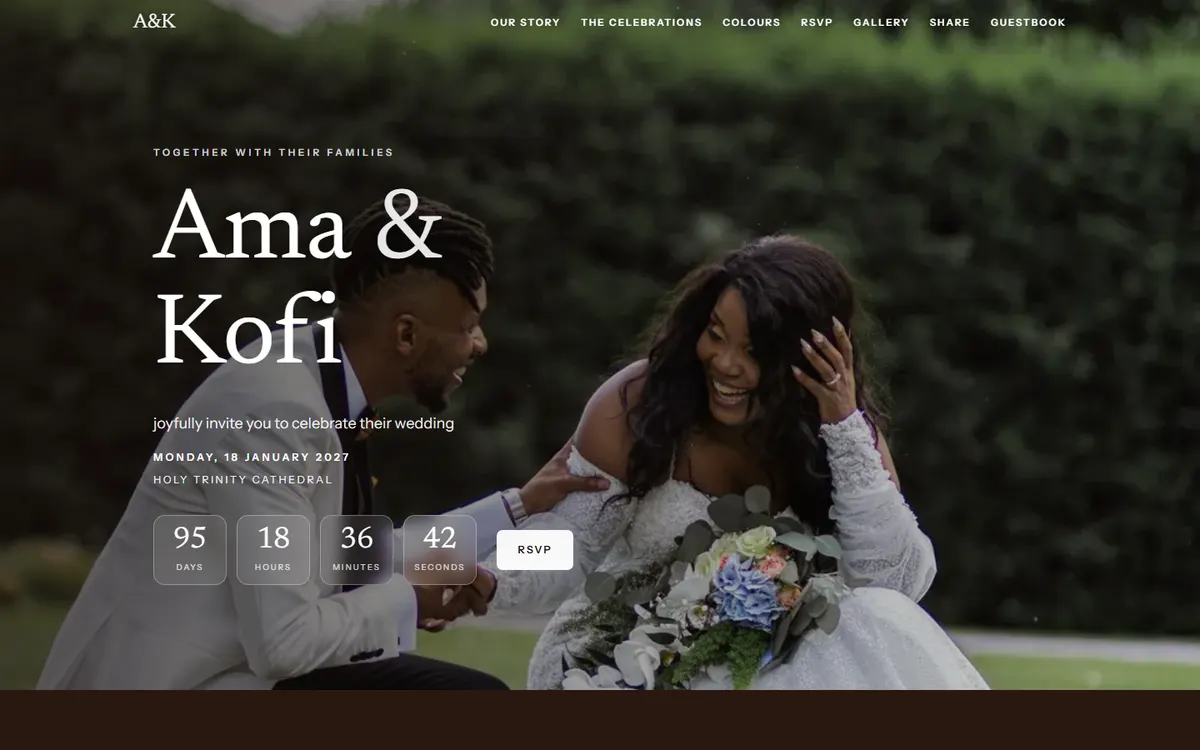
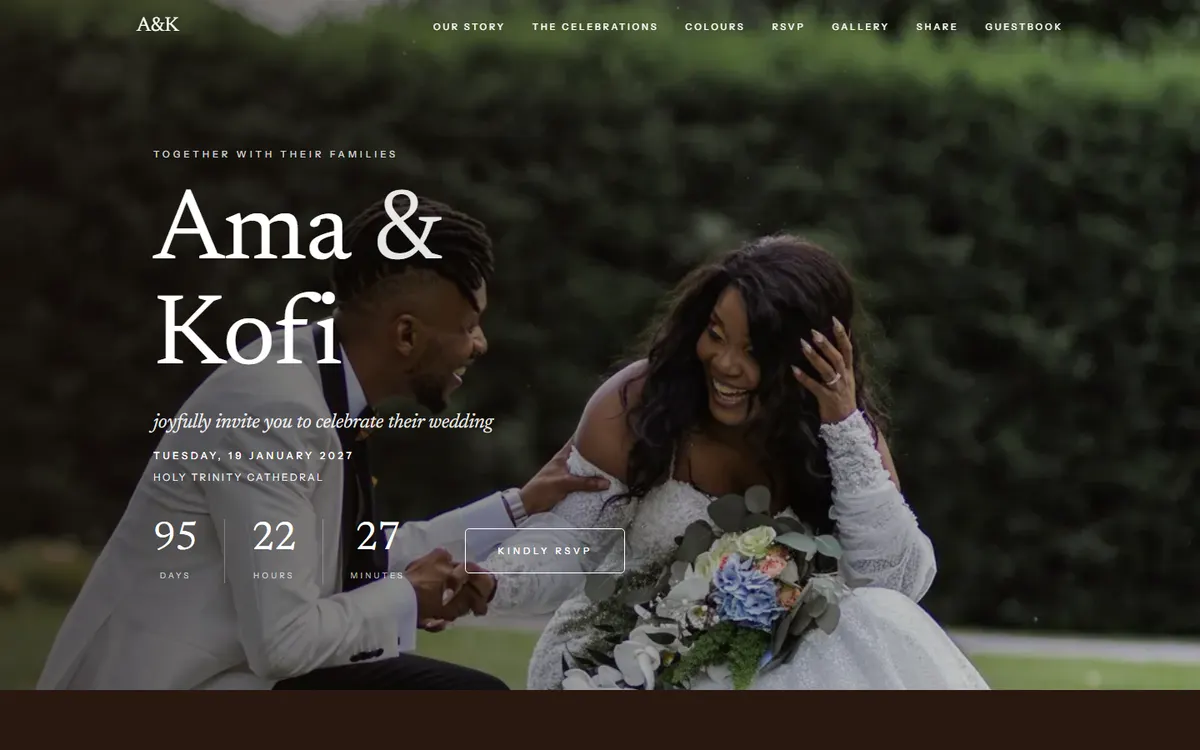
More refined designs: hairline countdown, outlined RSVP, italic invitation line, quieter cards, text links for maps, mounted-print date photo

diff --git a/src/components/site/hero.tsx b/src/components/site/hero.tsx
@@ -55,9 +55,14 @@ function Lead({ w }: { w: CelebrationView }) {
   return <>{w.occasion.copy.hostLine}</>;
 }
 
-function Invitation({ w }: { w: CelebrationView }) {
+function Invitation({ w, theme }: { w: CelebrationView; theme: Theme }) {
   if (w.phase === "after" || w.phase === "today") return null;
-  return <p className="text-base opacity-90 sm:text-lg">{w.occasion.copy.invitation}</p>;
+  const heavy = theme.fonts.displayWeight >= 600;
+  return (
+    <p className={`leading-snug italic opacity-90 ${heavy ? "text-lg sm:text-xl" : "w-display text-xl font-normal sm:text-2xl"}`}>
+      {w.occasion.copy.invitation}
+    </p>
+  );
 }
 
 function primary(w: CelebrationView) {
@@ -68,7 +73,7 @@ function DateLine({ w }: { w: CelebrationView }) {
   const { born, passed } = w.facts.lifeDates;
   const p = primary(w);
   return (
-    <div className="space-y-1.5 text-[0.78rem] font-semibold tracking-[0.26em] uppercase">
+    <div className="space-y-1.5 text-[0.74rem] font-medium tracking-[0.3em] uppercase">
       {w.occasion.after === "remembrance" && (born || passed) && (
         <p className="tracking-[0.2em] normal-case">
           {born ? formatPlainDate(born) : ""} {born && passed ? "–" : ""} {passed ? formatPlainDate(passed) : ""}
@@ -81,7 +86,7 @@ function DateLine({ w }: { w: CelebrationView }) {
 }
 
 /** Countdown before (if the occasion has one), a message on the day, a counter or line afterwards. */
-function Moment({ w, tone }: { w: CelebrationView; tone: "light" | "dark" }) {
+function Moment({ w, tone, align = "center" }: { w: CelebrationView; tone: "light" | "dark"; align?: "start" | "center" }) {
   const p = primary(w);
   if (w.phase === "after") {
     if (w.occasion.after === "married" && w.keyDate) {
@@ -94,14 +99,14 @@ function Moment({ w, tone }: { w: CelebrationView; tone: "light" | "dark" }) {
     return null;
   }
   if (!p || !w.occasion.countdown) return null;
-  return <Countdown to={p.startsAt} tone={tone} after={<p className="w-display text-2xl italic sm:text-3xl">{w.occasion.copy.today}</p>} />;
+  return <Countdown to={p.startsAt} tone={tone} align={align} seconds={false} after={<p className="w-display text-2xl italic sm:text-3xl">{w.occasion.copy.today}</p>} />;
 }
 
 function Cta({ w, light }: { w: CelebrationView; light: boolean }) {
   if (!w.rsvp.open || w.hiddenSections.includes("rsvp")) return null;
   return (
-    <a href="#rsvp" className={`w-btn ${light ? "w-btn-light" : ""}`}>
-      RSVP
+    <a href="#rsvp" className={`w-cta ${light ? "w-cta-light" : ""}`}>
+      Kindly RSVP
     </a>
   );
 }
@@ -132,8 +137,8 @@ export function Hero({ w, theme }: { w: CelebrationView; theme: Theme }) {
           <div className="relative z-10 mx-auto w-full max-w-6xl space-y-6 px-6 pt-28 pb-16 sm:px-10">
             <p className="w-eyebrow w-hero-in !text-white/80"><Lead w={w} /></p>
             <Headline w={w} theme={theme} className={`w-hero-in max-w-4xl leading-[0.98] ${fit(w, "text-[clamp(3.2rem,9vw,7.5rem)]", "text-[clamp(2.8rem,7vw,6rem)]", "text-[clamp(2.2rem,5.5vw,4.5rem)]")}`} />
-            <div className="w-hero-in max-w-xl space-y-4 [animation-delay:150ms]"><Invitation w={w} /><DateLine w={w} /></div>
-            <div className="flex flex-wrap items-center gap-6 pt-2"><Moment w={w} tone="light" /><Cta w={w} light /></div>
+            <div className="w-hero-in max-w-xl space-y-4 [animation-delay:150ms]"><Invitation w={w} theme={theme} /><DateLine w={w} /></div>
+            <div className="flex flex-wrap items-center gap-x-10 gap-y-8 pt-4"><Moment w={w} tone="light" align="start" /><Cta w={w} light /></div>
           </div>
         </header>
       );
@@ -148,8 +153,8 @@ export function Hero({ w, theme }: { w: CelebrationView; theme: Theme }) {
           <div className="flex flex-col justify-center gap-7 px-6 py-14 sm:px-12 md:py-20 lg:px-20">
             <p className="w-eyebrow w-hero-in"><Lead w={w} /></p>
             <Headline w={w} theme={theme} className={`w-hero-in leading-[0.95] ${fit(w, "text-6xl sm:text-7xl lg:text-8xl", "text-5xl sm:text-6xl lg:text-7xl", "text-4xl sm:text-5xl lg:text-6xl")} ${theme.heading === "minimal-caps" ? "uppercase" : ""}`} />
-            <div className="w-hero-in space-y-3 [animation-delay:150ms]"><Invitation w={w} /><DateLine w={w} /></div>
-            <div className="w-hero-in [animation-delay:300ms]"><Moment w={w} tone="dark" /></div>
+            <div className="w-hero-in space-y-3 [animation-delay:150ms]"><Invitation w={w} theme={theme} /><DateLine w={w} /></div>
+            <div className="w-hero-in [animation-delay:300ms]"><Moment w={w} tone="dark" align="start" /></div>
             <div><Cta w={w} light={false} /></div>
           </div>
         </header>
@@ -165,7 +170,7 @@ export function Hero({ w, theme }: { w: CelebrationView; theme: Theme }) {
           </div>
           <Headline w={w} theme={theme} stacked={false} className={`w-hero-in mt-10 italic ${fit(w, "text-5xl sm:text-7xl", "text-4xl sm:text-6xl", "text-3xl sm:text-5xl")}`} />
           <div className="mt-5"><OrnamentDivider kind={theme.ornament} /></div>
-          <div className="mt-5 space-y-3"><Invitation w={w} /><DateLine w={w} /></div>
+          <div className="mt-5 space-y-3"><Invitation w={w} theme={theme} /><DateLine w={w} /></div>
           <div className="mt-8 flex justify-center"><Moment w={w} tone="dark" /></div>
           <div className="mt-8"><Cta w={w} light={false} /></div>
         </header>
@@ -183,7 +188,7 @@ export function Hero({ w, theme }: { w: CelebrationView; theme: Theme }) {
           </div>
           <Headline w={w} theme={theme} stacked={false} className={`w-hero-in mx-auto mt-10 max-w-3xl ${fit(w, "text-5xl sm:text-6xl", "text-4xl sm:text-6xl", "text-3xl sm:text-5xl")}`} />
           <div className="mt-6"><OrnamentDivider kind={theme.ornament} /></div>
-          <div className="mx-auto mt-6 max-w-xl space-y-3"><Invitation w={w} /><DateLine w={w} /></div>
+          <div className="mx-auto mt-6 max-w-xl space-y-3"><Invitation w={w} theme={theme} /><DateLine w={w} /></div>
           <div className="mt-8 flex justify-center"><Moment w={w} tone="dark" /></div>
           <div className="mt-8"><Cta w={w} light={false} /></div>
         </header>
@@ -199,8 +204,8 @@ export function Hero({ w, theme }: { w: CelebrationView; theme: Theme }) {
               <p className="w-eyebrow w-hero-in"><Lead w={w} /></p>
               <Headline w={w} theme={theme} stacked={false} className={`w-hero-in leading-[0.95] ${fit(w, "text-[clamp(3.2rem,9vw,6.5rem)]", "text-[clamp(2.4rem,7vw,5rem)]", "text-[clamp(2rem,5vw,4rem)]")}`} />
               <OrnamentDivider kind={theme.ornament} className="lg:mx-0" />
-              <div className="space-y-3"><Invitation w={w} /><DateLine w={w} /></div>
-              <div className="flex justify-center lg:justify-start"><Moment w={w} tone="dark" /></div>
+              <div className="space-y-3"><Invitation w={w} theme={theme} /><DateLine w={w} /></div>
+              <div className="flex justify-center lg:justify-start"><Moment w={w} tone="dark" align="start" /></div>
               <Cta w={w} light={false} />
             </div>
             <div className="relative mx-auto h-[420px] w-full max-w-md" aria-hidden={!shots.length}>
@@ -237,8 +242,8 @@ export function Hero({ w, theme }: { w: CelebrationView; theme: Theme }) {
               className={`w-hero-in mt-6 max-w-5xl leading-[0.9] ${fit(w, "text-[clamp(3.4rem,11vw,9rem)]", "text-[clamp(3rem,8vw,6.5rem)]", "text-[clamp(2.4rem,6vw,5rem)]")} ${theme.heading === "minimal-caps" ? "uppercase" : ""}`}
             />
             <div className="mt-8 h-px w-28 bg-[var(--w-accent)]" />
-            <div className="mt-6 max-w-xl space-y-3"><Invitation w={w} /><DateLine w={w} /></div>
-            <div className="mt-8 flex flex-wrap items-center gap-6"><Moment w={w} tone="light" /><Cta w={w} light={false} /></div>
+            <div className="mt-6 max-w-xl space-y-3"><Invitation w={w} theme={theme} /><DateLine w={w} /></div>
+            <div className="mt-10 flex flex-wrap items-center gap-x-10 gap-y-8"><Moment w={w} tone="light" align="start" /><Cta w={w} light /></div>
           </div>
         </header>
       );
@@ -257,7 +262,7 @@ export function Hero({ w, theme }: { w: CelebrationView; theme: Theme }) {
             <p className="w-eyebrow w-hero-in !text-[#F1D79B]"><Lead w={w} /></p>
             <Headline w={w} theme={theme} className={`w-hero-in tracking-[0.05em] uppercase ${fit(w, "text-5xl sm:text-7xl", "text-4xl sm:text-6xl", "text-3xl sm:text-5xl")}`} />
             <OrnamentDivider kind={theme.ornament} className="!text-[#F1D79B]" />
-            <div className="space-y-3"><Invitation w={w} /><DateLine w={w} /></div>
+            <div className="space-y-3"><Invitation w={w} theme={theme} /><DateLine w={w} /></div>
             <Moment w={w} tone="light" />
             <Cta w={w} light />
           </div>
@@ -273,8 +278,8 @@ export function Hero({ w, theme }: { w: CelebrationView; theme: Theme }) {
             <div className="order-2 space-y-7 lg:order-1">
               <p className="w-eyebrow w-hero-in"><Lead w={w} /></p>
               <Headline w={w} theme={theme} stacked={false} className={`w-hero-in leading-[0.92] ${fit(w, "text-[clamp(3.2rem,9vw,6.5rem)]", "text-[clamp(2.4rem,7vw,5rem)]", "text-[clamp(2rem,5vw,4rem)]")}`} />
-              <div className="space-y-3"><Invitation w={w} /><DateLine w={w} /></div>
-              <Moment w={w} tone="dark" />
+              <div className="space-y-3"><Invitation w={w} theme={theme} /><DateLine w={w} /></div>
+              <Moment w={w} tone="dark" align="start" />
               <Cta w={w} light={false} />
             </div>
             <div className="relative order-1 lg:order-2">
@@ -300,7 +305,7 @@ export function Hero({ w, theme }: { w: CelebrationView; theme: Theme }) {
             <p className="w-eyebrow w-hero-in !text-white/90"><Lead w={w} /></p>
             <Headline w={w} theme={theme} className={`w-hero-in ${fit(w, "text-6xl sm:text-8xl", "text-5xl sm:text-7xl", "text-4xl sm:text-6xl")}`} />
             <OrnamentDivider kind={theme.ornament} className="!text-white/80" />
-            <div className="w-hero-in space-y-3 [animation-delay:200ms]"><Invitation w={w} /><DateLine w={w} /></div>
+            <div className="w-hero-in space-y-3 [animation-delay:200ms]"><Invitation w={w} theme={theme} /><DateLine w={w} /></div>
             <div className="w-hero-in [animation-delay:350ms]"><Moment w={w} tone="light" /></div>
             <Cta w={w} light />
           </div>

diff --git a/src/components/site/sections.tsx b/src/components/site/sections.tsx
@@ -28,21 +28,21 @@ export function Section({
   const shaped = tone !== "plain" && theme.layout.divider !== "none";
   const left = theme.heading === "editorial-left";
   const size =
-    theme.heading === "minimal-caps" ? "text-3xl tracking-[0.12em] uppercase sm:text-4xl"
-    : theme.heading === "script-centered" ? "text-5xl italic sm:text-6xl"
-    : theme.heading === "ornate" ? "text-4xl tracking-[0.08em] uppercase sm:text-5xl"
-    : theme.heading === "editorial-left" ? "text-5xl sm:text-7xl"
-    : "text-5xl sm:text-6xl";
+    theme.heading === "minimal-caps" ? "text-3xl tracking-[0.18em] uppercase sm:text-[2.6rem]"
+    : theme.heading === "script-centered" ? "text-5xl italic sm:text-7xl"
+    : theme.heading === "ornate" ? "text-4xl tracking-[0.1em] uppercase sm:text-5xl"
+    : theme.heading === "editorial-left" ? "text-5xl sm:text-[5.5rem]"
+    : "text-5xl sm:text-[4.2rem]";
   return (
     <section
       id={id}
       aria-labelledby={`${id}-title`}
       style={{ ["--w-section-bg" as string]: bg }}
-      className={`scroll-mt-20 px-5 py-20 sm:px-8 sm:py-28 ${tone === "tint" ? "w-tint" : tone === "band" ? "w-band" : tone === "pop" ? "w-pop" : ""} ${shaped ? "w-shaped" : ""}`}
+      className={`scroll-mt-20 px-5 py-24 sm:px-8 sm:py-36 ${tone === "tint" ? "w-tint" : tone === "band" ? "w-band" : tone === "pop" ? "w-pop" : ""} ${shaped ? "w-shaped" : ""}`}
     >
       {shaped && <SectionShape kind={theme.layout.divider} fill={bg} />}
       <div className="mx-auto max-w-6xl">
-        <Reveal className={`mb-12 sm:mb-16 ${left ? "text-left" : "text-center"}`}>
+        <Reveal className={`mb-14 sm:mb-20 ${left ? "text-left" : "text-center"}`}>
           {theme.heading === "band" && <GeometricBand className="mx-auto mb-6 !h-3 max-w-[9rem]" />}
           <p className="w-eyebrow">{eyebrow}</p>
           <h2 id={`${id}-title`} className={`w-display mt-3 ${size}`}>{title}</h2>
@@ -72,7 +72,7 @@ export function SectionShape({ kind, fill }: { kind: Theme["layout"]["divider"];
   );
 }
 
-export function SaveTheDate({ w }: { w: CelebrationView }) {
+export function SaveTheDate({ w, theme }: { w: CelebrationView; theme: Theme }) {
   const p = w.events.find((e) => e.id === w.primaryEventId) ?? w.events[0];
   if (!p) return null;
   const { y, m, d } = parsePlainDate(plainDateInZone(new Date(p.startsAt), p.timezone));
@@ -87,10 +87,17 @@ export function SaveTheDate({ w }: { w: CelebrationView }) {
       <div className={`mx-auto grid max-w-5xl items-center gap-14 ${photo ? "md:grid-cols-2" : ""}`}>
         {photo && (
           <Reveal className="mx-auto w-[min(78vw,320px)]">
-            <figure className="w-tilt-l bg-white p-3 pb-12 shadow-[0_30px_60px_-30px_rgba(0,0,0,.7)]">
-              <Picture image={photo} sizes="320px" className="aspect-[4/5] w-full object-cover" />
-              <figcaption className="w-display mt-3 text-center text-2xl text-[#2a1b13] italic">Moments</figcaption>
-            </figure>
+            {theme.photo === "polaroid" ? (
+              <figure className="w-tilt-l bg-white p-3 pb-12 shadow-[0_30px_60px_-30px_rgba(0,0,0,.7)]">
+                <Picture image={photo} sizes="320px" className="aspect-[4/5] w-full object-cover" />
+                <figcaption className="w-display mt-3 text-center text-2xl text-[#2a1b13] italic">Moments</figcaption>
+              </figure>
+            ) : (
+              // A fine inset frame, like a mounted print.
+              <figure className="border border-[color-mix(in_srgb,var(--w-band-ink)_35%,transparent)] p-3">
+                <Picture image={photo} sizes="320px" className={`aspect-[4/5] w-full object-cover ${theme.hero === "arch" ? "w-arch" : ""}`} />
+              </figure>
+            )}
           </Reveal>
         )}
         <Reveal className="text-center">
@@ -262,7 +269,7 @@ export function CountdownBand({ w, theme }: { w: CelebrationView; theme: Theme }
       <Reveal>
         <p className={`w-display ${look === "big" ? "text-3xl uppercase tracking-[0.12em] sm:text-4xl" : "text-4xl italic sm:text-5xl"}`}>{heading}</p>
         <div className="mx-auto mt-10 flex max-w-4xl justify-center">
-          <Countdown to={p.startsAt} tone={look === "circles" ? "dark" : "light"} look={look === "band" ? "boxes" : look} after={<p className="w-display text-2xl italic">{w.occasion.copy.today}</p>} />
+          <Countdown to={p.startsAt} tone={look === "circles" ? "dark" : "light"} look={look === "band" ? "inline" : look} after={<p className="w-display text-2xl italic">{w.occasion.copy.today}</p>} />
         </div>
       </Reveal>
     </section>

diff --git a/src/components/site/celebration.css b/src/components/site/celebration.css
@@ -22,9 +22,9 @@
 .w-band { background: var(--w-band); color: var(--w-band-ink); }
 .w-eyebrow {
   font-family: var(--w-body);
-  font-size: 0.72rem;
-  font-weight: 600;
-  letter-spacing: 0.32em;
+  font-size: 0.7rem;
+  font-weight: 500;
+  letter-spacing: 0.36em;
   text-transform: uppercase;
   color: var(--w-accent);
 }
@@ -34,10 +34,12 @@
   border: 1px solid var(--w-line);
   border-radius: var(--w-radius);
 }
+/* Hairline edge and the faintest lift: paper on a table, not a widget. */
 .w-card {
   background: var(--w-surface);
-  border-radius: calc(var(--w-radius) + 6px);
-  box-shadow: 0 1px 2px rgba(0, 0, 0, 0.04), 0 14px 40px -24px rgba(0, 0, 0, 0.25);
+  border: 1px solid color-mix(in srgb, var(--w-line) 80%, transparent);
+  border-radius: var(--w-radius);
+  box-shadow: 0 40px 70px -55px rgba(0, 0, 0, 0.28);
 }
 .w-line { border-color: var(--w-line); }
 
@@ -58,17 +60,50 @@
   align-items: center;
   justify-content: center;
   gap: 0.5rem;
-  min-height: 3rem;
-  padding: 0 1.6rem;
-  border-radius: max(calc(var(--w-radius) * 0.5), 2px);
+  min-height: 3.25rem;
+  padding: 0 2rem;
+  border-radius: max(calc(var(--w-radius) * 0.35), 1px);
   background: var(--w-accent);
   color: var(--w-accent-ink);
-  font-size: 0.78rem;
-  font-weight: 600;
-  letter-spacing: 0.16em;
+  font-size: 0.72rem;
+  font-weight: 500;
+  letter-spacing: 0.26em;
   text-transform: uppercase;
   transition: filter 0.2s ease, transform 0.2s ease;
 }
+
+/* The invitation's call to action: a fine outlined button in the colour of the text around it. */
+.w-cta {
+  display: inline-flex;
+  align-items: center;
+  justify-content: center;
+  min-height: 3.4rem;
+  padding: 0 2.4rem;
+  border: 1px solid currentColor;
+  border-radius: max(calc(var(--w-radius) * 0.35), 1px);
+  font-size: 0.7rem;
+  font-weight: 500;
+  letter-spacing: 0.34em;
+  text-transform: uppercase;
+  transition: background-color 0.35s ease, color 0.35s ease;
+}
+.w-cta:hover { background: color-mix(in srgb, currentColor 12%, transparent); }
+.w-cta-light { color: #fff; }
+
+/* Small text links (maps, directions): letter-spaced capitals over a hairline. */
+.w-link {
+  display: inline-flex;
+  align-items: center;
+  gap: 0.45rem;
+  padding-bottom: 0.3rem;
+  border-bottom: 1px solid color-mix(in srgb, currentColor 45%, transparent);
+  font-size: 0.68rem;
+  font-weight: 500;
+  letter-spacing: 0.28em;
+  text-transform: uppercase;
+  transition: border-color 0.25s ease;
+}
+.w-link:hover { border-color: currentColor; }
 .w-btn:hover { filter: brightness(1.08); }
 .w-btn:active { transform: translateY(1px); }
 .w-btn:disabled { opacity: 0.6; cursor: not-allowed; }

diff --git a/src/components/site/variants.tsx b/src/components/site/variants.tsx
@@ -141,11 +141,11 @@ export function StoryVariant({ w, theme }: { w: CelebrationView; theme: Theme })
 
 function VenueButtons({ e, center = true }: { e: EventView; center?: boolean }) {
   return (
-    <div className={`mt-6 flex flex-wrap gap-2 ${center ? "justify-center" : ""}`}>
-      <a className="w-btn w-btn-sm" href={mapsSearch(e)} target="_blank" rel="noopener noreferrer">
-        <MapPin className="h-4 w-4" aria-hidden /> View map<span className="sr-only"> for {e.venueName || e.name} (opens in a new tab)</span>
+    <div className={`mt-6 flex flex-wrap gap-x-8 gap-y-3 ${center ? "justify-center" : ""}`}>
+      <a className="w-link" href={mapsSearch(e)} target="_blank" rel="noopener noreferrer">
+        <MapPin className="h-3.5 w-3.5" aria-hidden /> View map<span className="sr-only"> for {e.venueName || e.name} (opens in a new tab)</span>
       </a>
-      <a className="w-btn w-btn-sm w-btn-ghost" href={mapsDirections(e)} target="_blank" rel="noopener noreferrer">
+      <a className="w-link" href={mapsDirections(e)} target="_blank" rel="noopener noreferrer">
         Directions<span className="sr-only"> to {e.venueName || e.name} (opens in a new tab)</span>
       </a>
     </div>
@@ -346,8 +346,8 @@ export function ProgrammeVariant({ w, theme, now }: { w: CelebrationView; theme:
                     </dl>
                   </div>
                   {(e.venueName || e.venueAddress) && (
-                    <a href={mapsDirections(e)} target="_blank" rel="noopener noreferrer" className="w-btn w-btn-sm">
-                      <MapPin className="h-4 w-4" aria-hidden /> Go<span className="sr-only"> to {e.venueName} (opens in a new tab)</span>
+                    <a href={mapsDirections(e)} target="_blank" rel="noopener noreferrer" className="w-link">
+                      <MapPin className="h-3.5 w-3.5" aria-hidden /> Directions<span className="sr-only"> to {e.venueName} (opens in a new tab)</span>
                     </a>
                   )}
                 </div>

diff --git a/src/components/site/live.tsx b/src/components/site/live.tsx
@@ -39,12 +39,17 @@ export function Countdown({
   to,
   after,
   tone = "light",
-  look = "boxes",
+  look = "inline",
+  align = "center",
+  seconds = true,
 }: {
   to: string;
   after: ReactNode;
   tone?: "light" | "dark";
-  look?: "boxes" | "big" | "circles";
+  look?: "inline" | "boxes" | "big" | "circles";
+  align?: "start" | "center";
+  /** Seconds tick restlessly; the opening screen leaves them out for calm. */
+  seconds?: boolean;
 }) {
   const current = useNow();
   const target = Date.parse(to);
@@ -56,6 +61,24 @@ export function Countdown({
     ["Minutes", diff === null ? "–" : pad(Math.floor(diff / 60_000) % 60)],
     ["Seconds", diff === null ? "–" : pad(Math.floor(diff / 1000) % 60)],
   ];
+  const shown = seconds ? units : units.slice(0, 3);
+  // Large light numerals separated by hairlines: how printed invitations and fine watches show time.
+  if (look === "inline") {
+    return (
+      <div role="timer" aria-label="Time until the celebration" className={`flex ${align === "center" ? "justify-center" : "justify-start"}`}>
+        {shown.map(([label, value], i) => (
+          <div
+            key={label}
+            className={`text-center ${i === 0 ? "pr-5 sm:pr-8" : "px-5 sm:px-8"}`}
+            style={i ? { borderLeft: "1px solid color-mix(in srgb, currentColor 28%, transparent)" } : undefined}
+          >
+            <span className="w-display block text-[2.4rem] leading-none font-light tabular-nums sm:text-5xl">{value}</span>
+            <span className="mt-2.5 block text-[0.6rem] tracking-[0.34em] uppercase opacity-70">{label}</span>
+          </div>
+        ))}
+      </div>
+    );
+  }
   if (look === "big") {
     return (
       <div role="timer" aria-label="Time until the celebration" className="grid grid-cols-4 gap-3 sm:gap-8">

diff --git a/src/components/site/interactive.tsx b/src/components/site/interactive.tsx
@@ -491,9 +491,9 @@ export function SiteNav({ monogram, items, darkHero = true }: { monogram: string
             : "text-[var(--w-ink)]"
       }`}
     >
-      <div className="mx-auto flex h-14 max-w-6xl items-center justify-between px-4">
+      <div className="mx-auto flex h-16 max-w-6xl items-center justify-between px-5">
         <a href="#top" className="w-display text-2xl tracking-wide">{monogram}</a>
-        <ul className="hidden gap-6 text-[0.72rem] font-semibold tracking-[0.18em] uppercase md:flex">
+        <ul className="hidden gap-8 text-[0.68rem] font-medium tracking-[0.26em] uppercase md:flex">
           {items.map((i) => (
             <li key={i.id}><a href={`#${i.id}`} className="py-2 hover:opacity-70">{i.label}</a></li>
           ))}

diff --git a/src/components/site/celebration-site.tsx b/src/components/site/celebration-site.tsx
@@ -137,7 +137,7 @@ export function CelebrationSite({ w, now, inviteToken = null }: { w: Celebration
   } else {
     body = (
       <>
-        {show.saveTheDate && <SaveTheDate w={w} />}
+        {show.saveTheDate && <SaveTheDate w={w} theme={theme} />}
         {show.story && <StoryVariant w={w} theme={theme} />}
         {show.party && <PartySection w={w} theme={theme} />}
         {show.schedule && <ProgrammeVariant w={w} theme={theme} now={now} />}
